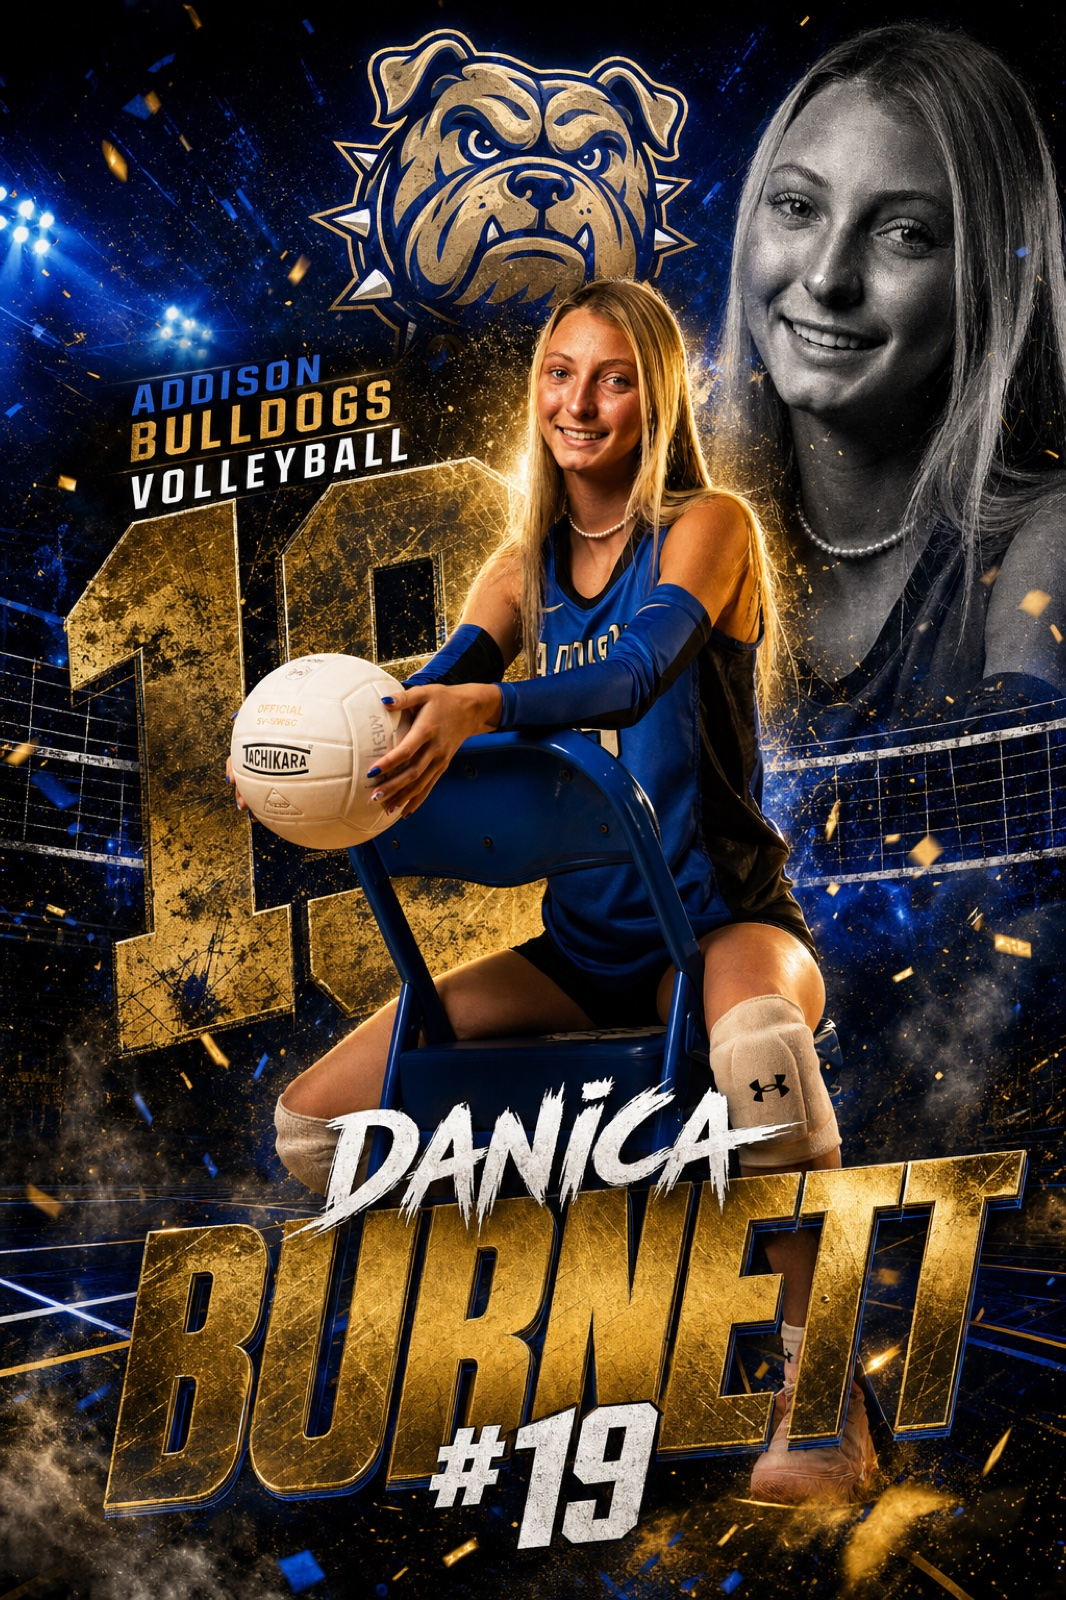
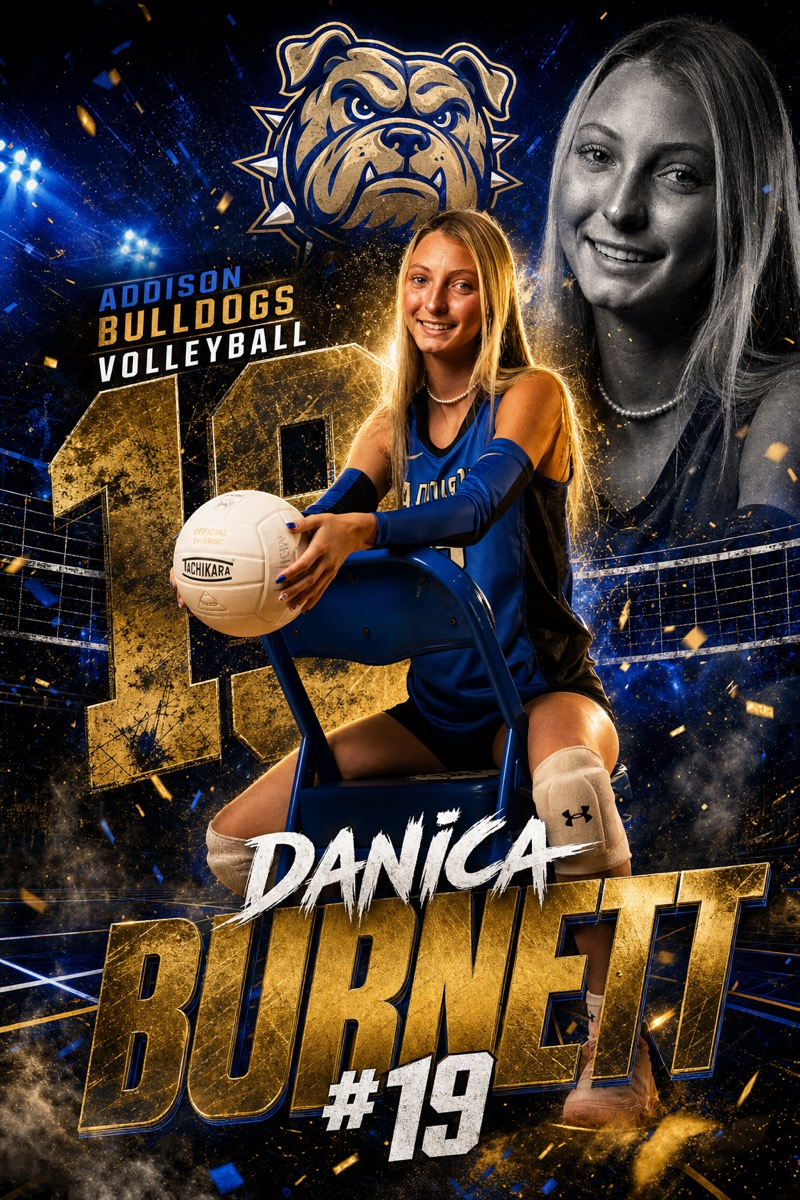
Speed up lightbox: smaller full images, preloading, loading spinner
Cut full-size image files roughly in half (max 1200px, quality 74, was
1600px/85) for a faster fetch. Preload each card's full image on
hover/touchstart so it's often already cached by the time it's clicked,
plus an idle-time preload of all 7 shortly after page load. Add a spinner
so any remaining wait is visible instead of looking frozen.

diff --git a/index.html b/index.html
@@ -96,7 +96,11 @@ nav{position:fixed;top:0;left:0;right:0;z-index:200;height:64px;display:flex;ali
 .showcase-card{width:302px;height:453px;flex-shrink:0;border-radius:12px;overflow:hidden;border:1px solid var(--border);position:relative;background:var(--panel);transition:border-color 0.25s,box-shadow 0.25s;cursor:zoom-in}
 .lightbox-overlay{position:fixed;inset:0;background:rgba(0,0,0,0.94);z-index:1000;display:none;align-items:center;justify-content:center;padding:60px 40px;cursor:zoom-out}
 .lightbox-overlay.show{display:flex}
-.lightbox-overlay img{max-width:90vw;max-height:88vh;object-fit:contain;border-radius:6px;box-shadow:0 30px 80px rgba(0,0,0,0.8);cursor:default}
+.lightbox-overlay img{max-width:90vw;max-height:88vh;object-fit:contain;border-radius:6px;box-shadow:0 30px 80px rgba(0,0,0,0.8);cursor:default;opacity:1;transition:opacity 0.15s}
+.lightbox-overlay.loading img{opacity:0}
+.lb-spinner{display:none;position:absolute;width:44px;height:44px;border:3px solid rgba(255,255,255,0.15);border-top-color:var(--lime);border-radius:50%;animation:lbspin 0.8s linear infinite}
+.lightbox-overlay.loading .lb-spinner{display:block}
+@keyframes lbspin{to{transform:rotate(360deg)}}
 .lightbox-close{position:absolute;top:24px;right:32px;font-family:var(--fa);font-size:32px;color:var(--white);cursor:pointer;line-height:1;opacity:0.6;transition:opacity 0.2s;z-index:2}
 .lightbox-close:hover{opacity:1}
 @media(max-width:700px){.lightbox-overlay{padding:20px}}
@@ -561,26 +565,27 @@ footer{background:var(--dark);border-top:1px solid var(--border);padding:60px 48
   </div>
   <div class="showcase-track-wrap">
     <div class="showcase-track">
-      <div class="showcase-card" onclick="openLightbox('showcase-01-full.jpg','Allister Akins #70 — Winston County Yellow Jackets sports design by VIZN')"><img src="showcase-01.jpg" alt="Allister Akins #70 — Winston County Yellow Jackets sports design by VIZN"></div>
-      <div class="showcase-card" onclick="openLightbox('showcase-02-full.jpg','Danica Burnett #19 — Addison Bulldogs Volleyball sports design by VIZN')"><img src="showcase-02.jpg" alt="Danica Burnett #19 — Addison Bulldogs Volleyball sports design by VIZN"></div>
-      <div class="showcase-card" onclick="openLightbox('showcase-03-full.jpg','Ava Bartlett #32 — Addison Bulldogs Volleyball sports design by VIZN')"><img src="showcase-03.jpg" alt="Ava Bartlett #32 — Addison Bulldogs Volleyball sports design by VIZN"></div>
-      <div class="showcase-card" onclick="openLightbox('showcase-04-full.jpg','Cooper Fuller #1 — Thompson Warriors Baseball sports design by VIZN')"><img src="showcase-04.jpg" alt="Cooper Fuller #1 — Thompson Warriors Baseball sports design by VIZN"></div>
-      <div class="showcase-card" onclick="openLightbox('showcase-05-full.jpg','Harris Anderson #7 — Thompson Warriors Baseball sports design by VIZN')"><img src="showcase-05.jpg" alt="Harris Anderson #7 — Thompson Warriors Baseball sports design by VIZN"></div>
-      <div class="showcase-card" onclick="openLightbox('showcase-06-full.jpg','Oak Mountain Lacrosse 12U Blue team design by VIZN')"><img src="showcase-06.jpg" alt="Oak Mountain Lacrosse 12U Blue team design by VIZN"></div>
-      <div class="showcase-card" onclick="openLightbox('showcase-07-full.jpg','Addison Bulldogs Softball 10U team design by VIZN')"><img src="showcase-07.jpg" alt="Addison Bulldogs Softball 10U team design by VIZN"></div>
-      <div class="showcase-card" onclick="openLightbox('showcase-01-full.jpg','Allister Akins #70 — Winston County Yellow Jackets sports design by VIZN')"><img src="showcase-01.jpg" alt="Allister Akins #70 — Winston County Yellow Jackets sports design by VIZN"></div>
-      <div class="showcase-card" onclick="openLightbox('showcase-02-full.jpg','Danica Burnett #19 — Addison Bulldogs Volleyball sports design by VIZN')"><img src="showcase-02.jpg" alt="Danica Burnett #19 — Addison Bulldogs Volleyball sports design by VIZN"></div>
-      <div class="showcase-card" onclick="openLightbox('showcase-03-full.jpg','Ava Bartlett #32 — Addison Bulldogs Volleyball sports design by VIZN')"><img src="showcase-03.jpg" alt="Ava Bartlett #32 — Addison Bulldogs Volleyball sports design by VIZN"></div>
-      <div class="showcase-card" onclick="openLightbox('showcase-04-full.jpg','Cooper Fuller #1 — Thompson Warriors Baseball sports design by VIZN')"><img src="showcase-04.jpg" alt="Cooper Fuller #1 — Thompson Warriors Baseball sports design by VIZN"></div>
-      <div class="showcase-card" onclick="openLightbox('showcase-05-full.jpg','Harris Anderson #7 — Thompson Warriors Baseball sports design by VIZN')"><img src="showcase-05.jpg" alt="Harris Anderson #7 — Thompson Warriors Baseball sports design by VIZN"></div>
-      <div class="showcase-card" onclick="openLightbox('showcase-06-full.jpg','Oak Mountain Lacrosse 12U Blue team design by VIZN')"><img src="showcase-06.jpg" alt="Oak Mountain Lacrosse 12U Blue team design by VIZN"></div>
-      <div class="showcase-card" onclick="openLightbox('showcase-07-full.jpg','Addison Bulldogs Softball 10U team design by VIZN')"><img src="showcase-07.jpg" alt="Addison Bulldogs Softball 10U team design by VIZN"></div>
+      <div class="showcase-card" onmouseenter="preloadImage('showcase-01-full.jpg')" ontouchstart="preloadImage('showcase-01-full.jpg')" onclick="openLightbox('showcase-01-full.jpg','Allister Akins #70 — Winston County Yellow Jackets sports design by VIZN')"><img src="showcase-01.jpg" alt="Allister Akins #70 — Winston County Yellow Jackets sports design by VIZN"></div>
+      <div class="showcase-card" onmouseenter="preloadImage('showcase-02-full.jpg')" ontouchstart="preloadImage('showcase-02-full.jpg')" onclick="openLightbox('showcase-02-full.jpg','Danica Burnett #19 — Addison Bulldogs Volleyball sports design by VIZN')"><img src="showcase-02.jpg" alt="Danica Burnett #19 — Addison Bulldogs Volleyball sports design by VIZN"></div>
+      <div class="showcase-card" onmouseenter="preloadImage('showcase-03-full.jpg')" ontouchstart="preloadImage('showcase-03-full.jpg')" onclick="openLightbox('showcase-03-full.jpg','Ava Bartlett #32 — Addison Bulldogs Volleyball sports design by VIZN')"><img src="showcase-03.jpg" alt="Ava Bartlett #32 — Addison Bulldogs Volleyball sports design by VIZN"></div>
+      <div class="showcase-card" onmouseenter="preloadImage('showcase-04-full.jpg')" ontouchstart="preloadImage('showcase-04-full.jpg')" onclick="openLightbox('showcase-04-full.jpg','Cooper Fuller #1 — Thompson Warriors Baseball sports design by VIZN')"><img src="showcase-04.jpg" alt="Cooper Fuller #1 — Thompson Warriors Baseball sports design by VIZN"></div>
+      <div class="showcase-card" onmouseenter="preloadImage('showcase-05-full.jpg')" ontouchstart="preloadImage('showcase-05-full.jpg')" onclick="openLightbox('showcase-05-full.jpg','Harris Anderson #7 — Thompson Warriors Baseball sports design by VIZN')"><img src="showcase-05.jpg" alt="Harris Anderson #7 — Thompson Warriors Baseball sports design by VIZN"></div>
+      <div class="showcase-card" onmouseenter="preloadImage('showcase-06-full.jpg')" ontouchstart="preloadImage('showcase-06-full.jpg')" onclick="openLightbox('showcase-06-full.jpg','Oak Mountain Lacrosse 12U Blue team design by VIZN')"><img src="showcase-06.jpg" alt="Oak Mountain Lacrosse 12U Blue team design by VIZN"></div>
+      <div class="showcase-card" onmouseenter="preloadImage('showcase-07-full.jpg')" ontouchstart="preloadImage('showcase-07-full.jpg')" onclick="openLightbox('showcase-07-full.jpg','Addison Bulldogs Softball 10U team design by VIZN')"><img src="showcase-07.jpg" alt="Addison Bulldogs Softball 10U team design by VIZN"></div>
+      <div class="showcase-card" onmouseenter="preloadImage('showcase-01-full.jpg')" ontouchstart="preloadImage('showcase-01-full.jpg')" onclick="openLightbox('showcase-01-full.jpg','Allister Akins #70 — Winston County Yellow Jackets sports design by VIZN')"><img src="showcase-01.jpg" alt="Allister Akins #70 — Winston County Yellow Jackets sports design by VIZN"></div>
+      <div class="showcase-card" onmouseenter="preloadImage('showcase-02-full.jpg')" ontouchstart="preloadImage('showcase-02-full.jpg')" onclick="openLightbox('showcase-02-full.jpg','Danica Burnett #19 — Addison Bulldogs Volleyball sports design by VIZN')"><img src="showcase-02.jpg" alt="Danica Burnett #19 — Addison Bulldogs Volleyball sports design by VIZN"></div>
+      <div class="showcase-card" onmouseenter="preloadImage('showcase-03-full.jpg')" ontouchstart="preloadImage('showcase-03-full.jpg')" onclick="openLightbox('showcase-03-full.jpg','Ava Bartlett #32 — Addison Bulldogs Volleyball sports design by VIZN')"><img src="showcase-03.jpg" alt="Ava Bartlett #32 — Addison Bulldogs Volleyball sports design by VIZN"></div>
+      <div class="showcase-card" onmouseenter="preloadImage('showcase-04-full.jpg')" ontouchstart="preloadImage('showcase-04-full.jpg')" onclick="openLightbox('showcase-04-full.jpg','Cooper Fuller #1 — Thompson Warriors Baseball sports design by VIZN')"><img src="showcase-04.jpg" alt="Cooper Fuller #1 — Thompson Warriors Baseball sports design by VIZN"></div>
+      <div class="showcase-card" onmouseenter="preloadImage('showcase-05-full.jpg')" ontouchstart="preloadImage('showcase-05-full.jpg')" onclick="openLightbox('showcase-05-full.jpg','Harris Anderson #7 — Thompson Warriors Baseball sports design by VIZN')"><img src="showcase-05.jpg" alt="Harris Anderson #7 — Thompson Warriors Baseball sports design by VIZN"></div>
+      <div class="showcase-card" onmouseenter="preloadImage('showcase-06-full.jpg')" ontouchstart="preloadImage('showcase-06-full.jpg')" onclick="openLightbox('showcase-06-full.jpg','Oak Mountain Lacrosse 12U Blue team design by VIZN')"><img src="showcase-06.jpg" alt="Oak Mountain Lacrosse 12U Blue team design by VIZN"></div>
+      <div class="showcase-card" onmouseenter="preloadImage('showcase-07-full.jpg')" ontouchstart="preloadImage('showcase-07-full.jpg')" onclick="openLightbox('showcase-07-full.jpg','Addison Bulldogs Softball 10U team design by VIZN')"><img src="showcase-07.jpg" alt="Addison Bulldogs Softball 10U team design by VIZN"></div>
     </div>
   </div>
 </div>
 
 <div class="lightbox-overlay" id="lightboxOverlay" onclick="closeLightbox()">
   <span class="lightbox-close" onclick="closeLightbox()">&times;</span>
+  <span class="lb-spinner"></span>
   <img id="lightboxImg" src="" alt="" onclick="event.stopPropagation()">
 </div>
 
@@ -982,13 +987,25 @@ function goToOrderForm(note) {
   if (custom) custom.scrollIntoView({behavior:'smooth'});
 }
 
+const SHOWCASE_FULL_IMAGES = ['showcase-01-full.jpg','showcase-02-full.jpg','showcase-03-full.jpg','showcase-04-full.jpg','showcase-05-full.jpg','showcase-06-full.jpg','showcase-07-full.jpg'];
+const _preloaded = {};
+function preloadImage(src) {
+  if (!src || _preloaded[src]) return;
+  _preloaded[src] = true;
+  const img = new Image();
+  img.src = src;
+}
+const idleQueue = window.requestIdleCallback || function(fn) { setTimeout(fn, 1200); };
+window.addEventListener('load', () => idleQueue(() => SHOWCASE_FULL_IMAGES.forEach(preloadImage)));
+
 function openLightbox(src, alt) {
   const overlay = el('lightboxOverlay');
   const img = el('lightboxImg');
   if (!overlay || !img) return;
+  overlay.classList.add('show', 'loading');
+  img.onload = () => overlay.classList.remove('loading');
   img.src = src;
   img.alt = alt || '';
-  overlay.classList.add('show');
   document.body.style.overflow = 'hidden';
 }
 function closeLightbox() {
